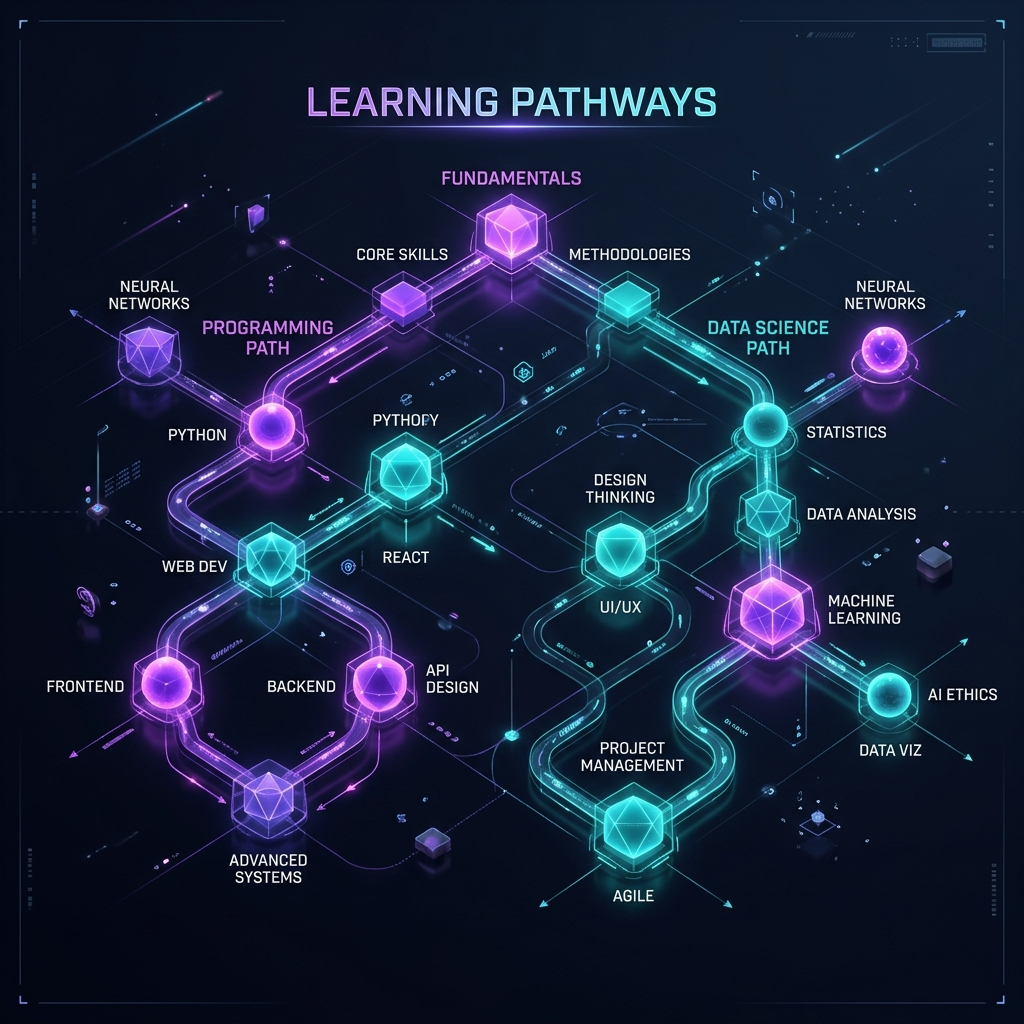
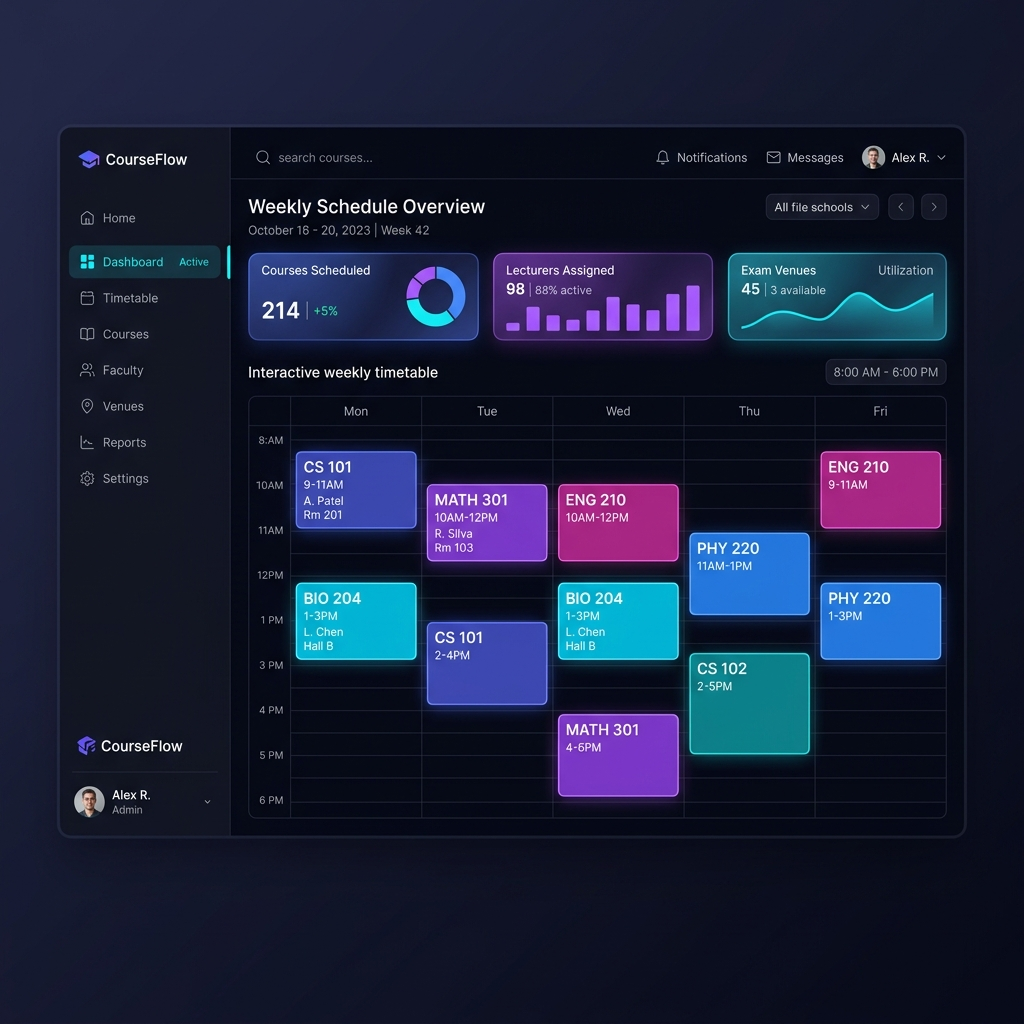
feat: update CourseFlow project description and thumbnail to reflect enterprise scheduling platform pivot

diff --git a/src/components/Projects/Projects.js b/src/components/Projects/Projects.js
@@ -54,7 +54,7 @@ function Projects() {
               imgPath={courseflow}
               isBlog={false}
               title="CourseFlow"
-              description="A dynamic curriculum planning and course visualizer built with React.js, Go, and D3.js. It maps course prerequisite structures into interactive node flow graphs for students."
+              description="An enterprise-grade academic management and timetable scheduling platform built with Next.js, TypeScript, and Tailwind CSS. The system features an automated, constraint-based scheduling engine that generates conflict-free lecture and exam timetables while preventing room double-bookings and lecturer time overlaps. It provides Heads of Department (HODs) and Admins with interactive calendar views, manual schedule override controls, and slot-pinning capabilities to preserve custom bookings during automated runs. Key utilities include an integrated scheduling complaints system for students and staff, and a multi-format export engine that generates high-fidelity PDF, Excel, and client-side 2x PNG reports."
               ghLink="https://github.com/CeleHub/courseflow"
               demoLink="https://courseflow-demo.netlify.app/"
             />